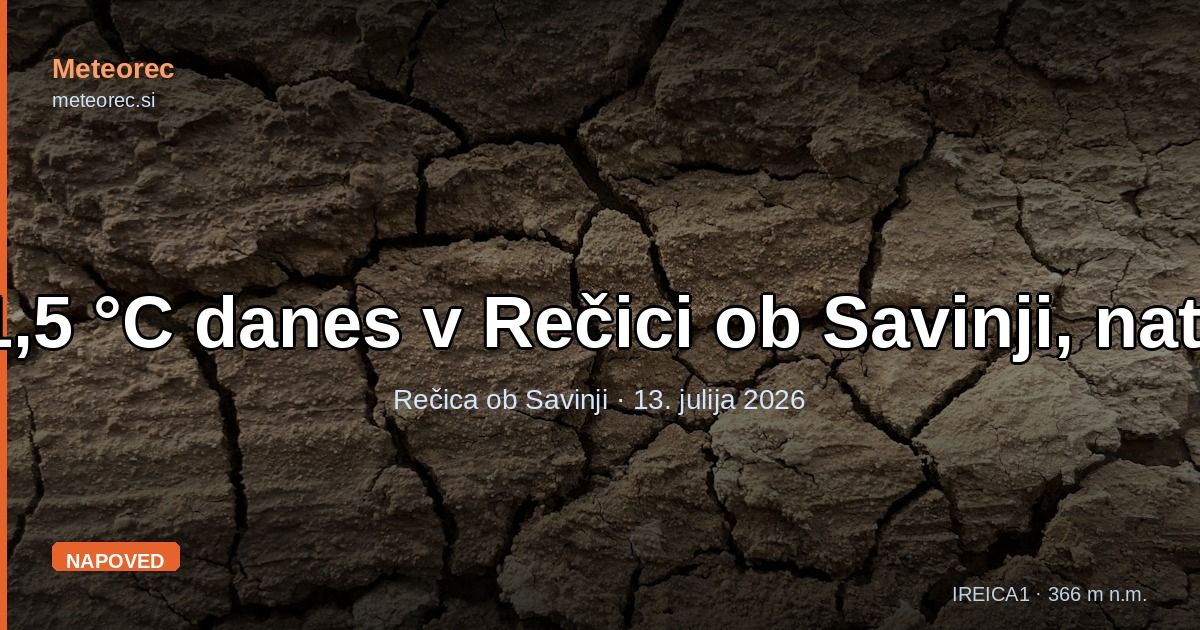
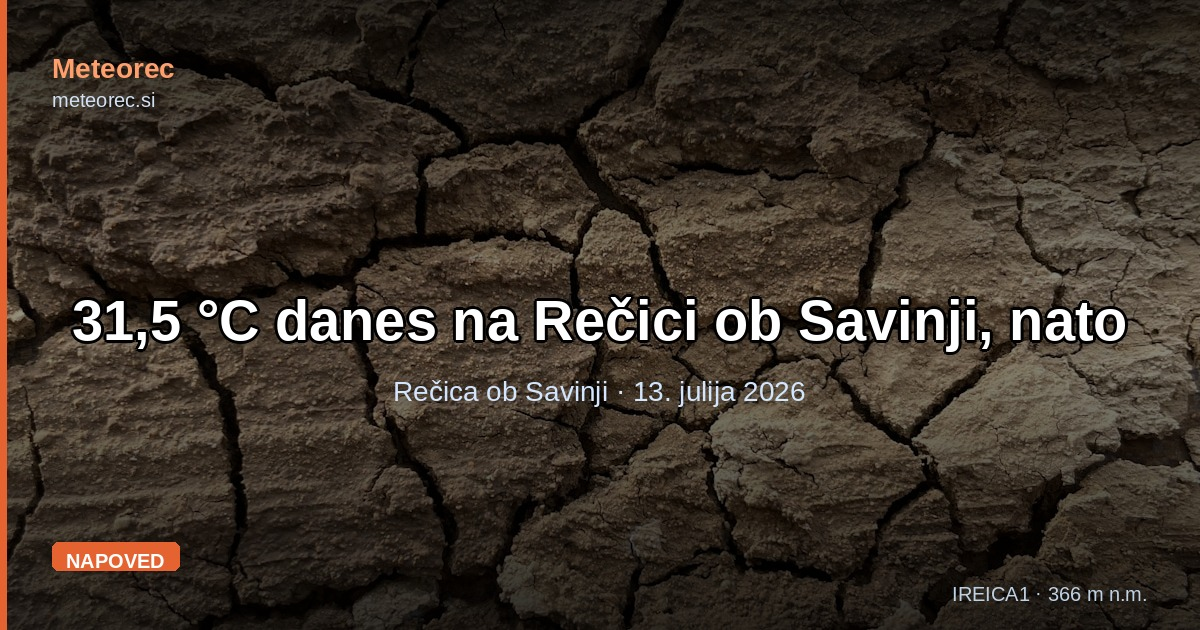
fix: popravi naslov današnjega članka "v Rečici" → "na Rečici ob Savinji"
Popravljen naslov na vseh 8 mestih v blog/31-5-c-...-0713.html (title,
og:title, twitter:title, JSON-LD headline + breadcrumb, vidne drobtine, h1,
JS PAGE_TITLE) ter v blog.json, od koder se je razširil na blog/index.html,
blog/rss.xml in zadevne /blog/tema/* strani. Telo članka ni bilo spremenjeno.

Mimogrede odkrita in popravljena obstoječa napaka v tools/generate_og_images.py
(make_og): naslov se je izrisoval pri fiksni velikosti pisave brez preverjanja
dejanske širine, zato je pri daljših enovrstičnih naslovih (kot ta) segal čez
oba robova slike -- preverjeno na izvirni sliki na main, napaka je obstajala
že prej. Dodano samodejno pomanjšanje pisave, dokler se besedilo ne prilega
širini slike. OG slika za današnji članek ponovno generirana z drought
ozadjem (ujemanje potrjeno s primerjavo nedotaknjenih vogalov, razdalja 53
proti >1000 za vse druge kandidate) in enakim naglasnim odtenkom.

Claude-Session: https://claude.ai/code/session_01XoLxF9bHosmozudvqStucU

Changed region(s): [[0.0, 0.4524, 1.0, 0.573], [0.3083, 0.6032, 0.6783, 0.6635]]

diff --git a/blog/31-5-c-danes-v-recici-ob-savinji-nato-obrat-dez-in-ohladitev-0713.html b/blog/31-5-c-danes-v-recici-ob-savinji-nato-obrat-dez-in-ohladitev-0713.html
@@ -10,7 +10,7 @@
   gtag('config', 'G-LE8PJ1HR8B');
 </script>
 <meta name="viewport" content="width=device-width, initial-scale=1.0">
-<title>31,5 °C danes v Rečici ob Savinji, nato obrat: dež in ohladitev do konca tedna | Meteorec</title>
+<title>31,5 °C danes na Rečici ob Savinji, nato obrat: dež in ohladitev do konca tedna | Meteorec</title>
 <link rel="canonical" href="https://meteorec.si/blog/31-5-c-danes-v-recici-ob-savinji-nato-obrat-dez-in-ohladitev-0713.html">
 <link rel="alternate" hreflang="sl" href="https://meteorec.si/blog/31-5-c-danes-v-recici-ob-savinji-nato-obrat-dez-in-ohladitev-0713.html">
 <link rel="alternate" hreflang="x-default" href="https://meteorec.si/blog/31-5-c-danes-v-recici-ob-savinji-nato-obrat-dez-in-ohladitev-0713.html">
@@ -21,7 +21,7 @@
 <meta property="og:type" content="article">
 <meta property="og:url" content="https://meteorec.si/blog/31-5-c-danes-v-recici-ob-savinji-nato-obrat-dez-in-ohladitev-0713.html">
 <meta property="og:site_name" content="Meteorec">
-<meta property="og:title" content="31,5 °C danes v Rečici ob Savinji, nato obrat: dež in ohladitev do konca tedna">
+<meta property="og:title" content="31,5 °C danes na Rečici ob Savinji, nato obrat: dež in ohladitev do konca tedna">
 <meta property="og:description" content="Postaja IREICA1 danes kaže vročino do 31,5 °C, občuten pa je še višji zaradi vlage. Napoved za naslednje dni prinaša dež in postopno ohladitev.">
 <meta property="og:image" content="https://meteorec.si/og/31-5-c-danes-v-recici-ob-savinji-nato-obrat-dez-in-ohladitev-0713.jpg">
 <meta property="og:image:width" content="1200">
@@ -31,14 +31,14 @@
 <meta property="article:author" content="Filip Eremita">
 <meta property="article:section" content="Napoved">
 <meta name="twitter:card" content="summary_large_image">
-<meta name="twitter:title" content="31,5 °C danes v Rečici ob Savinji, nato obrat: dež in ohladitev do konca tedna">
+<meta name="twitter:title" content="31,5 °C danes na Rečici ob Savinji, nato obrat: dež in ohladitev do konca tedna">
 <meta name="twitter:description" content="Postaja IREICA1 danes kaže vročino do 31,5 °C, občuten pa je še višji zaradi vlage. Napoved za naslednje dni prinaša dež in postopno ohladitev.">
 <meta name="twitter:image" content="https://meteorec.si/og/31-5-c-danes-v-recici-ob-savinji-nato-obrat-dez-in-ohladitev-0713.jpg">
 <script type="application/ld+json">
 {
   "@context": "https://schema.org",
   "@type": "BlogPosting",
-  "headline": "31,5 °C danes v Rečici ob Savinji, nato obrat: dež in ohladitev do konca tedna",
+  "headline": "31,5 °C danes na Rečici ob Savinji, nato obrat: dež in ohladitev do konca tedna",
   "description": "Postaja IREICA1 danes kaže vročino do 31,5 °C, občuten pa je še višji zaradi vlage. Napoved za naslednje dni prinaša dež in postopno ohladitev.",
   "image": { "@type": "ImageObject", "url": "https://meteorec.si/og/31-5-c-danes-v-recici-ob-savinji-nato-obrat-dez-in-ohladitev-0713.jpg", "width": 1200, "height": 630 },
   "datePublished": "2026-07-13",
@@ -58,7 +58,7 @@
   "itemListElement": [
     { "@type": "ListItem", "position": 1, "name": "Meteorec", "item": "https://meteorec.si/" },
     { "@type": "ListItem", "position": 2, "name": "Blog", "item": "https://meteorec.si/blog/" },
-    { "@type": "ListItem", "position": 3, "name": "31,5 °C danes v Rečici ob Savinji, nato obrat: dež in ohladitev do konca tedna" }
+    { "@type": "ListItem", "position": 3, "name": "31,5 °C danes na Rečici ob Savinji, nato obrat: dež in ohladitev do konca tedna" }
   ]
 }
 </script>
@@ -87,12 +87,12 @@
   </header>
 
   <nav class="crumbs" aria-label="Drobtine">
-    <a href="/">Meteorec</a> › <a href="/blog/">Blog</a> › 31,5 °C danes v Rečici ob Savinji, nato obrat: dež in ohladitev do konca tedna
+    <a href="/">Meteorec</a> › <a href="/blog/">Blog</a> › 31,5 °C danes na Rečici ob Savinji, nato obrat: dež in ohladitev do konca tedna
   </nav>
 
   <article>
     <div class="stn-badge"><span></span> IREICA1 · Rečica ob Savinji · Napoved</div>
-    <h1>31,5 °C danes v Rečici ob Savinji, nato obrat: dež in ohladitev do konca tedna</h1>
+    <h1>31,5 °C danes na Rečici ob Savinji, nato obrat: dež in ohladitev do konca tedna</h1>
     <p class="post-meta">13. julija 2026 · Filip Eremita</p>
 
     <p class="lead">Danes se v Zgornji Savinjski dolini obeta <strong>vročina do 31,5 °C</strong>, kar bo najtoplejši dan v tem kratkem sklopu vročih dni. Postaja IREICA1 v Rečici ob Savinji trenutno kaže 29,6 °C, ob visoki vlagi pa se počutimo, kot da je zunaj skoraj 32 stopinj. Že od jutri se vročina umika, z njo pa prihaja dolgo pričakovan dež.</p>
@@ -181,7 +181,7 @@
 <script>
 (function () {
   const PAGE_URL   = "https://meteorec.si/blog/31-5-c-danes-v-recici-ob-savinji-nato-obrat-dez-in-ohladitev-0713.html";
-  const PAGE_TITLE = "31,5 °C danes v Rečici ob Savinji, nato obrat: dež in ohladitev do konca tedna | Meteorec";
+  const PAGE_TITLE = "31,5 °C danes na Rečici ob Savinji, nato obrat: dež in ohladitev do konca tedna | Meteorec";
   const PAGE_TEXT  = "Postaja IREICA1 danes kaže vročino do 31,5 °C, občuten pa je še višji zaradi vlage. Napoved za naslednje dni prinaša dež in postopno ohladitev.";
   const enc = encodeURIComponent;
   document.getElementById('btn-wa').href = 'https://wa.me/?text=' + enc(PAGE_TEXT + ' ' + PAGE_URL);

diff --git a/blog/index.html b/blog/index.html
@@ -250,10 +250,10 @@
   <ul class="post-list">
     <li>
       <a class="post-card" href="31-5-c-danes-v-recici-ob-savinji-nato-obrat-dez-in-ohladitev-0713.html">
-        <img class="post-thumb" src="/og/31-5-c-danes-v-recici-ob-savinji-nato-obrat-dez-in-ohladitev-0713.jpg" alt="31,5 °C danes v Rečici ob Savinji, nato obrat: dež in ohladitev do konca tedna" width="280" height="147" loading="lazy">
+        <img class="post-thumb" src="/og/31-5-c-danes-v-recici-ob-savinji-nato-obrat-dez-in-ohladitev-0713.jpg" alt="31,5 °C danes na Rečici ob Savinji, nato obrat: dež in ohladitev do konca tedna" width="280" height="147" loading="lazy">
         <div class="post-card-body">
           <div class="date">13. julija 2026</div>
-          <h2>31,5 °C danes v Rečici ob Savinji, nato obrat: dež in ohladitev do konca tedna</h2>
+          <h2>31,5 °C danes na Rečici ob Savinji, nato obrat: dež in ohladitev do konca tedna</h2>
           <p>Postaja IREICA1 danes kaže vročino do 31,5 °C, občuten pa je še višji zaradi vlage. Napoved za naslednje dni prinaša dež in postopno ohladitev.</p>
         </div>
       </a>

diff --git a/blog/tema/ireica1/index.html b/blog/tema/ireica1/index.html
@@ -45,10 +45,10 @@
   <ul class="post-list">
     <li>
       <a class="post-card" href="/blog/31-5-c-danes-v-recici-ob-savinji-nato-obrat-dez-in-ohladitev-0713.html">
-        <img class="post-thumb" src="/og/31-5-c-danes-v-recici-ob-savinji-nato-obrat-dez-in-ohladitev-0713.jpg" alt="31,5 °C danes v Rečici ob Savinji, nato obrat: dež in ohladitev do konca tedna" width="280" height="147" loading="lazy">
+        <img class="post-thumb" src="/og/31-5-c-danes-v-recici-ob-savinji-nato-obrat-dez-in-ohladitev-0713.jpg" alt="31,5 °C danes na Rečici ob Savinji, nato obrat: dež in ohladitev do konca tedna" width="280" height="147" loading="lazy">
         <div class="post-card-body">
           <div class="date">13. julija 2026</div>
-          <h2>31,5 °C danes v Rečici ob Savinji, nato obrat: dež in ohladitev do konca tedna</h2>
+          <h2>31,5 °C danes na Rečici ob Savinji, nato obrat: dež in ohladitev do konca tedna</h2>
           <p>Postaja IREICA1 danes kaže vročino do 31,5 °C, občuten pa je še višji zaradi vlage. Napoved za naslednje dni prinaša dež in postopno ohladitev.</p>
         </div>
       </a>

diff --git a/blog/tema/napoved/index.html b/blog/tema/napoved/index.html
@@ -45,10 +45,10 @@
   <ul class="post-list">
     <li>
       <a class="post-card" href="/blog/31-5-c-danes-v-recici-ob-savinji-nato-obrat-dez-in-ohladitev-0713.html">
-        <img class="post-thumb" src="/og/31-5-c-danes-v-recici-ob-savinji-nato-obrat-dez-in-ohladitev-0713.jpg" alt="31,5 °C danes v Rečici ob Savinji, nato obrat: dež in ohladitev do konca tedna" width="280" height="147" loading="lazy">
+        <img class="post-thumb" src="/og/31-5-c-danes-v-recici-ob-savinji-nato-obrat-dez-in-ohladitev-0713.jpg" alt="31,5 °C danes na Rečici ob Savinji, nato obrat: dež in ohladitev do konca tedna" width="280" height="147" loading="lazy">
         <div class="post-card-body">
           <div class="date">13. julija 2026</div>
-          <h2>31,5 °C danes v Rečici ob Savinji, nato obrat: dež in ohladitev do konca tedna</h2>
+          <h2>31,5 °C danes na Rečici ob Savinji, nato obrat: dež in ohladitev do konca tedna</h2>
           <p>Postaja IREICA1 danes kaže vročino do 31,5 °C, občuten pa je še višji zaradi vlage. Napoved za naslednje dni prinaša dež in postopno ohladitev.</p>
         </div>
       </a>

diff --git a/blog/tema/savinja/index.html b/blog/tema/savinja/index.html
@@ -45,10 +45,10 @@
   <ul class="post-list">
     <li>
       <a class="post-card" href="/blog/31-5-c-danes-v-recici-ob-savinji-nato-obrat-dez-in-ohladitev-0713.html">
-        <img class="post-thumb" src="/og/31-5-c-danes-v-recici-ob-savinji-nato-obrat-dez-in-ohladitev-0713.jpg" alt="31,5 °C danes v Rečici ob Savinji, nato obrat: dež in ohladitev do konca tedna" width="280" height="147" loading="lazy">
+        <img class="post-thumb" src="/og/31-5-c-danes-v-recici-ob-savinji-nato-obrat-dez-in-ohladitev-0713.jpg" alt="31,5 °C danes na Rečici ob Savinji, nato obrat: dež in ohladitev do konca tedna" width="280" height="147" loading="lazy">
         <div class="post-card-body">
           <div class="date">13. julija 2026</div>
-          <h2>31,5 °C danes v Rečici ob Savinji, nato obrat: dež in ohladitev do konca tedna</h2>
+          <h2>31,5 °C danes na Rečici ob Savinji, nato obrat: dež in ohladitev do konca tedna</h2>
           <p>Postaja IREICA1 danes kaže vročino do 31,5 °C, občuten pa je še višji zaradi vlage. Napoved za naslednje dni prinaša dež in postopno ohladitev.</p>
         </div>
       </a>

diff --git a/blog/tema/zgornja-savinjska-dolina/index.html b/blog/tema/zgornja-savinjska-dolina/index.html
@@ -45,10 +45,10 @@
   <ul class="post-list">
     <li>
       <a class="post-card" href="/blog/31-5-c-danes-v-recici-ob-savinji-nato-obrat-dez-in-ohladitev-0713.html">
-        <img class="post-thumb" src="/og/31-5-c-danes-v-recici-ob-savinji-nato-obrat-dez-in-ohladitev-0713.jpg" alt="31,5 °C danes v Rečici ob Savinji, nato obrat: dež in ohladitev do konca tedna" width="280" height="147" loading="lazy">
+        <img class="post-thumb" src="/og/31-5-c-danes-v-recici-ob-savinji-nato-obrat-dez-in-ohladitev-0713.jpg" alt="31,5 °C danes na Rečici ob Savinji, nato obrat: dež in ohladitev do konca tedna" width="280" height="147" loading="lazy">
         <div class="post-card-body">
           <div class="date">13. julija 2026</div>
-          <h2>31,5 °C danes v Rečici ob Savinji, nato obrat: dež in ohladitev do konca tedna</h2>
+          <h2>31,5 °C danes na Rečici ob Savinji, nato obrat: dež in ohladitev do konca tedna</h2>
           <p>Postaja IREICA1 danes kaže vročino do 31,5 °C, občuten pa je še višji zaradi vlage. Napoved za naslednje dni prinaša dež in postopno ohladitev.</p>
         </div>
       </a>

diff --git a/tools/generate_og_images.py b/tools/generate_og_images.py
@@ -448,11 +448,20 @@ def make_og(article):
     draw.text((pad, pad + 36), 'meteorec.si', font=font_domain,
               fill=(210, 225, 245))
 
-    # Article title centered
+    # Article title centered -- auto-shrink to fit width (dolgi enovrstični
+    # naslovi, npr. avtomatski izsek iz generate_daily_post.py, sicer segajo
+    # čez oba robova slike, ker se prej ni preverjala dejanska širina).
     lines = article['title'].split('\n')
     n = len(lines)
     font_size = 72 if (n == 1 or max(len(l) for l in lines) > 22) else 82
+    max_line_w = W - 2 * pad
     font_title = ImageFont.truetype(FONT_BOLD, font_size)
+    while font_size > 36:
+        widest = max(draw.textbbox((0, 0), l, font=font_title)[2] for l in lines)
+        if widest <= max_line_w:
+            break
+        font_size -= 4
+        font_title = ImageFont.truetype(FONT_BOLD, font_size)
     line_h = font_title.size + 12
     total_h = n * line_h
     y_start = (H - total_h) // 2 + 8